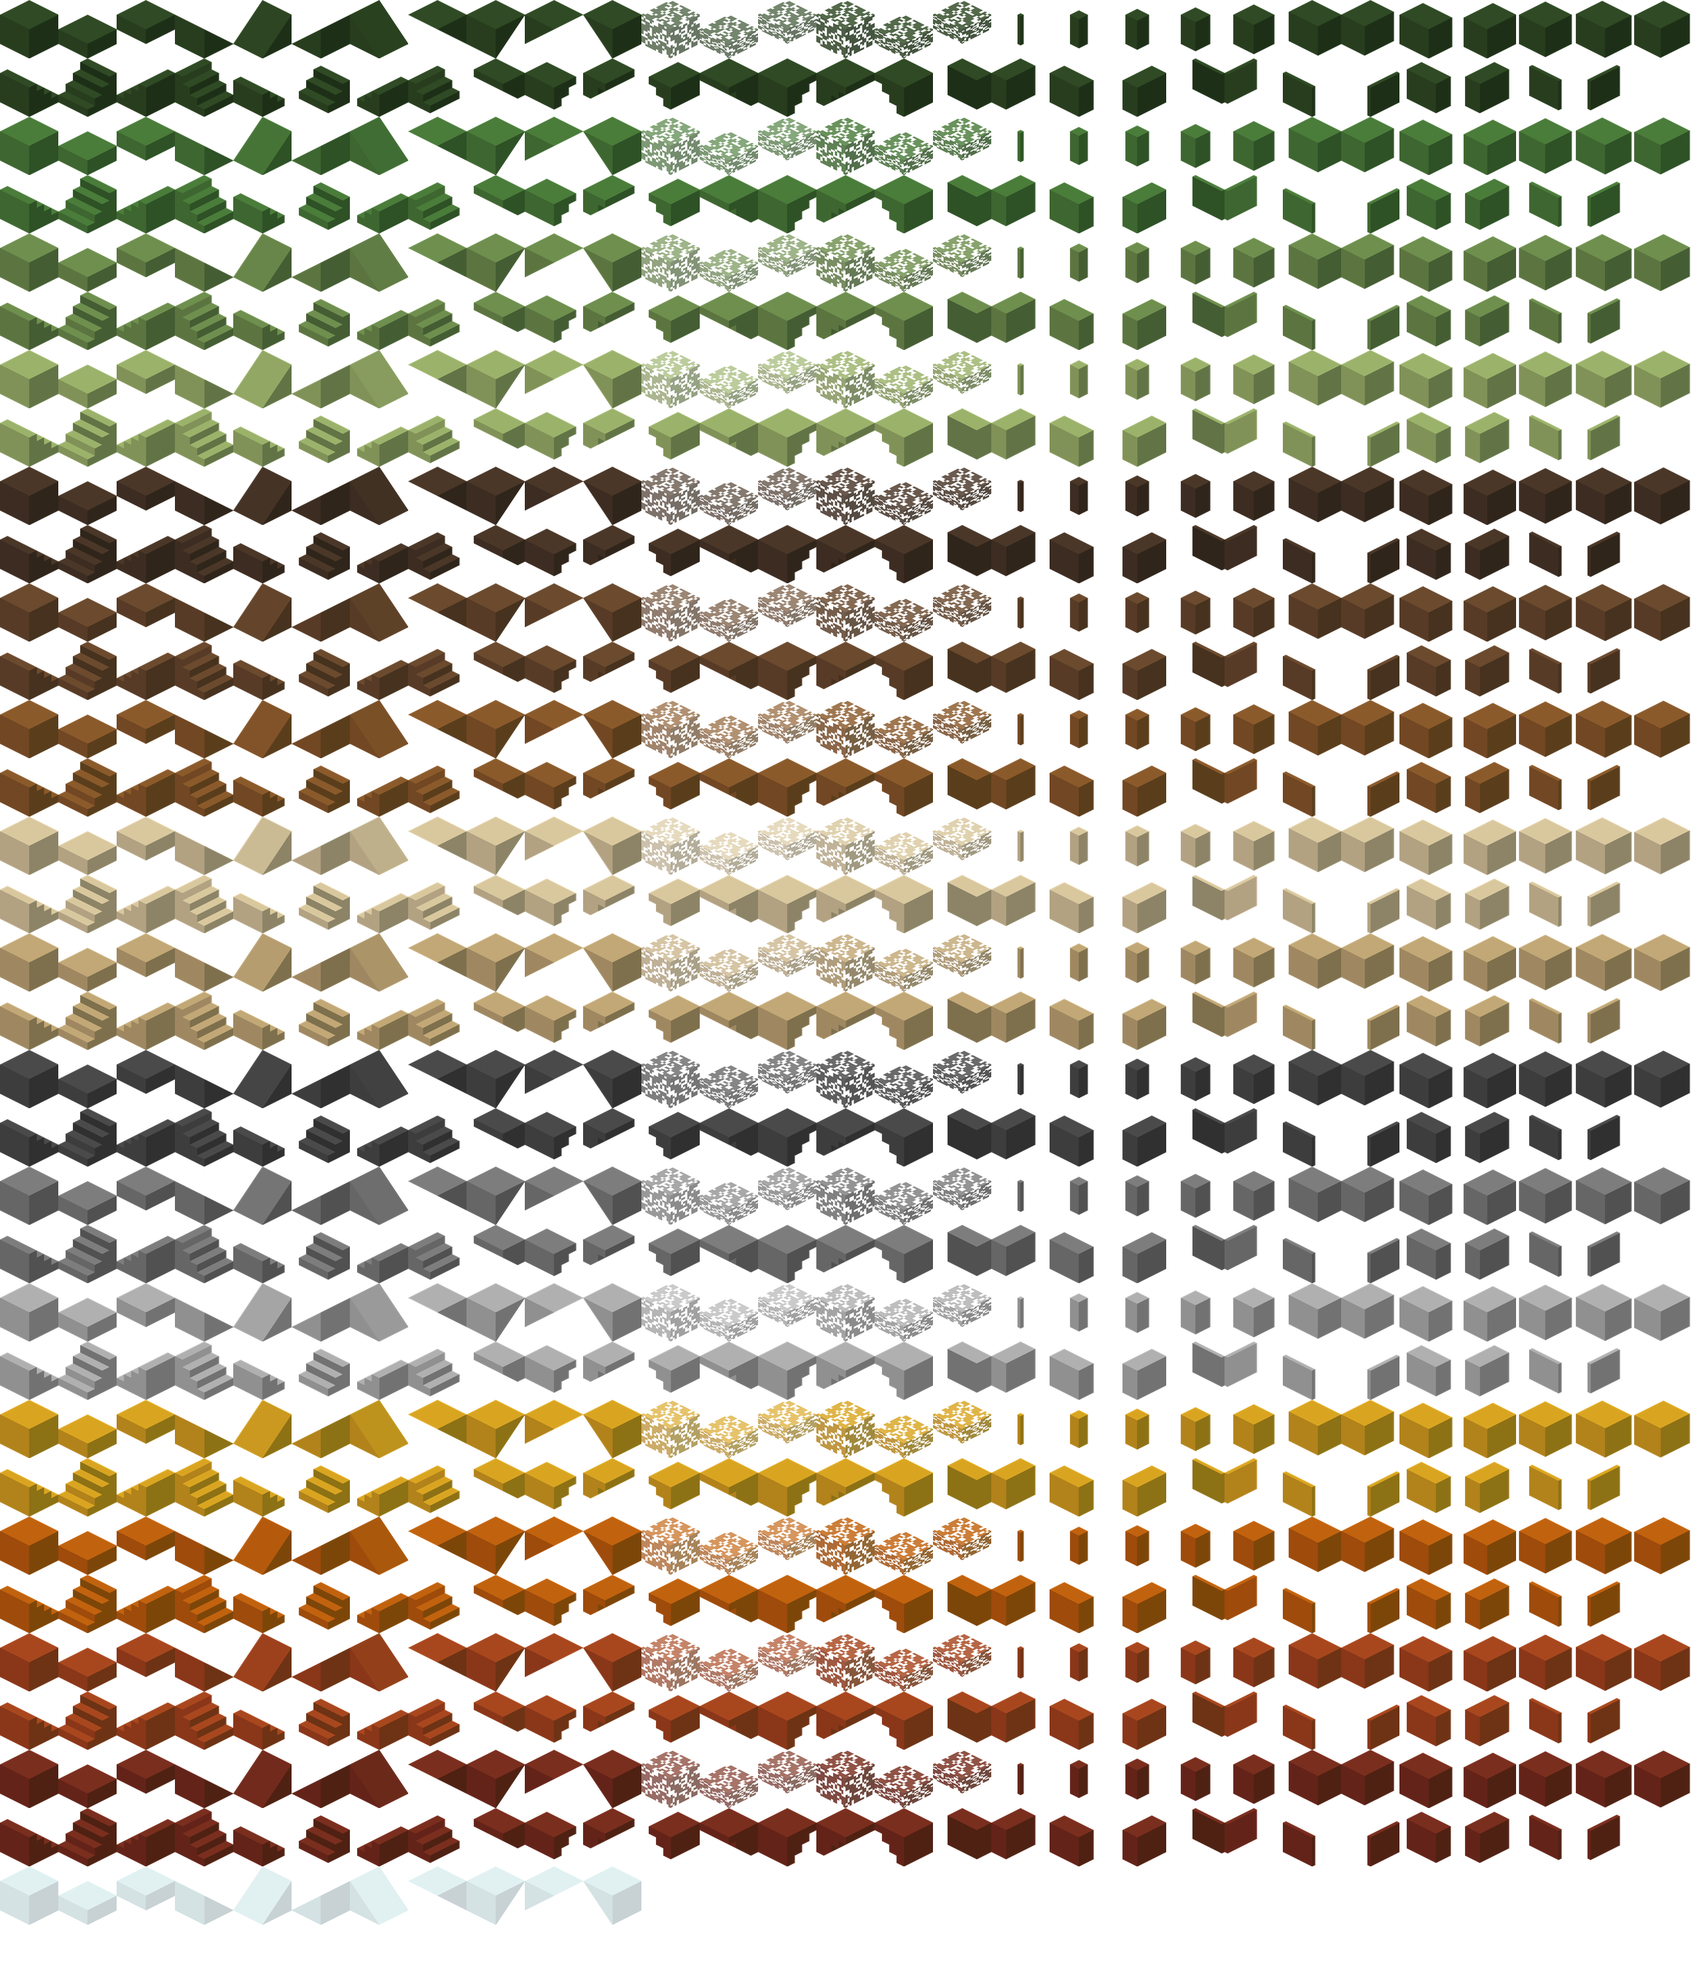
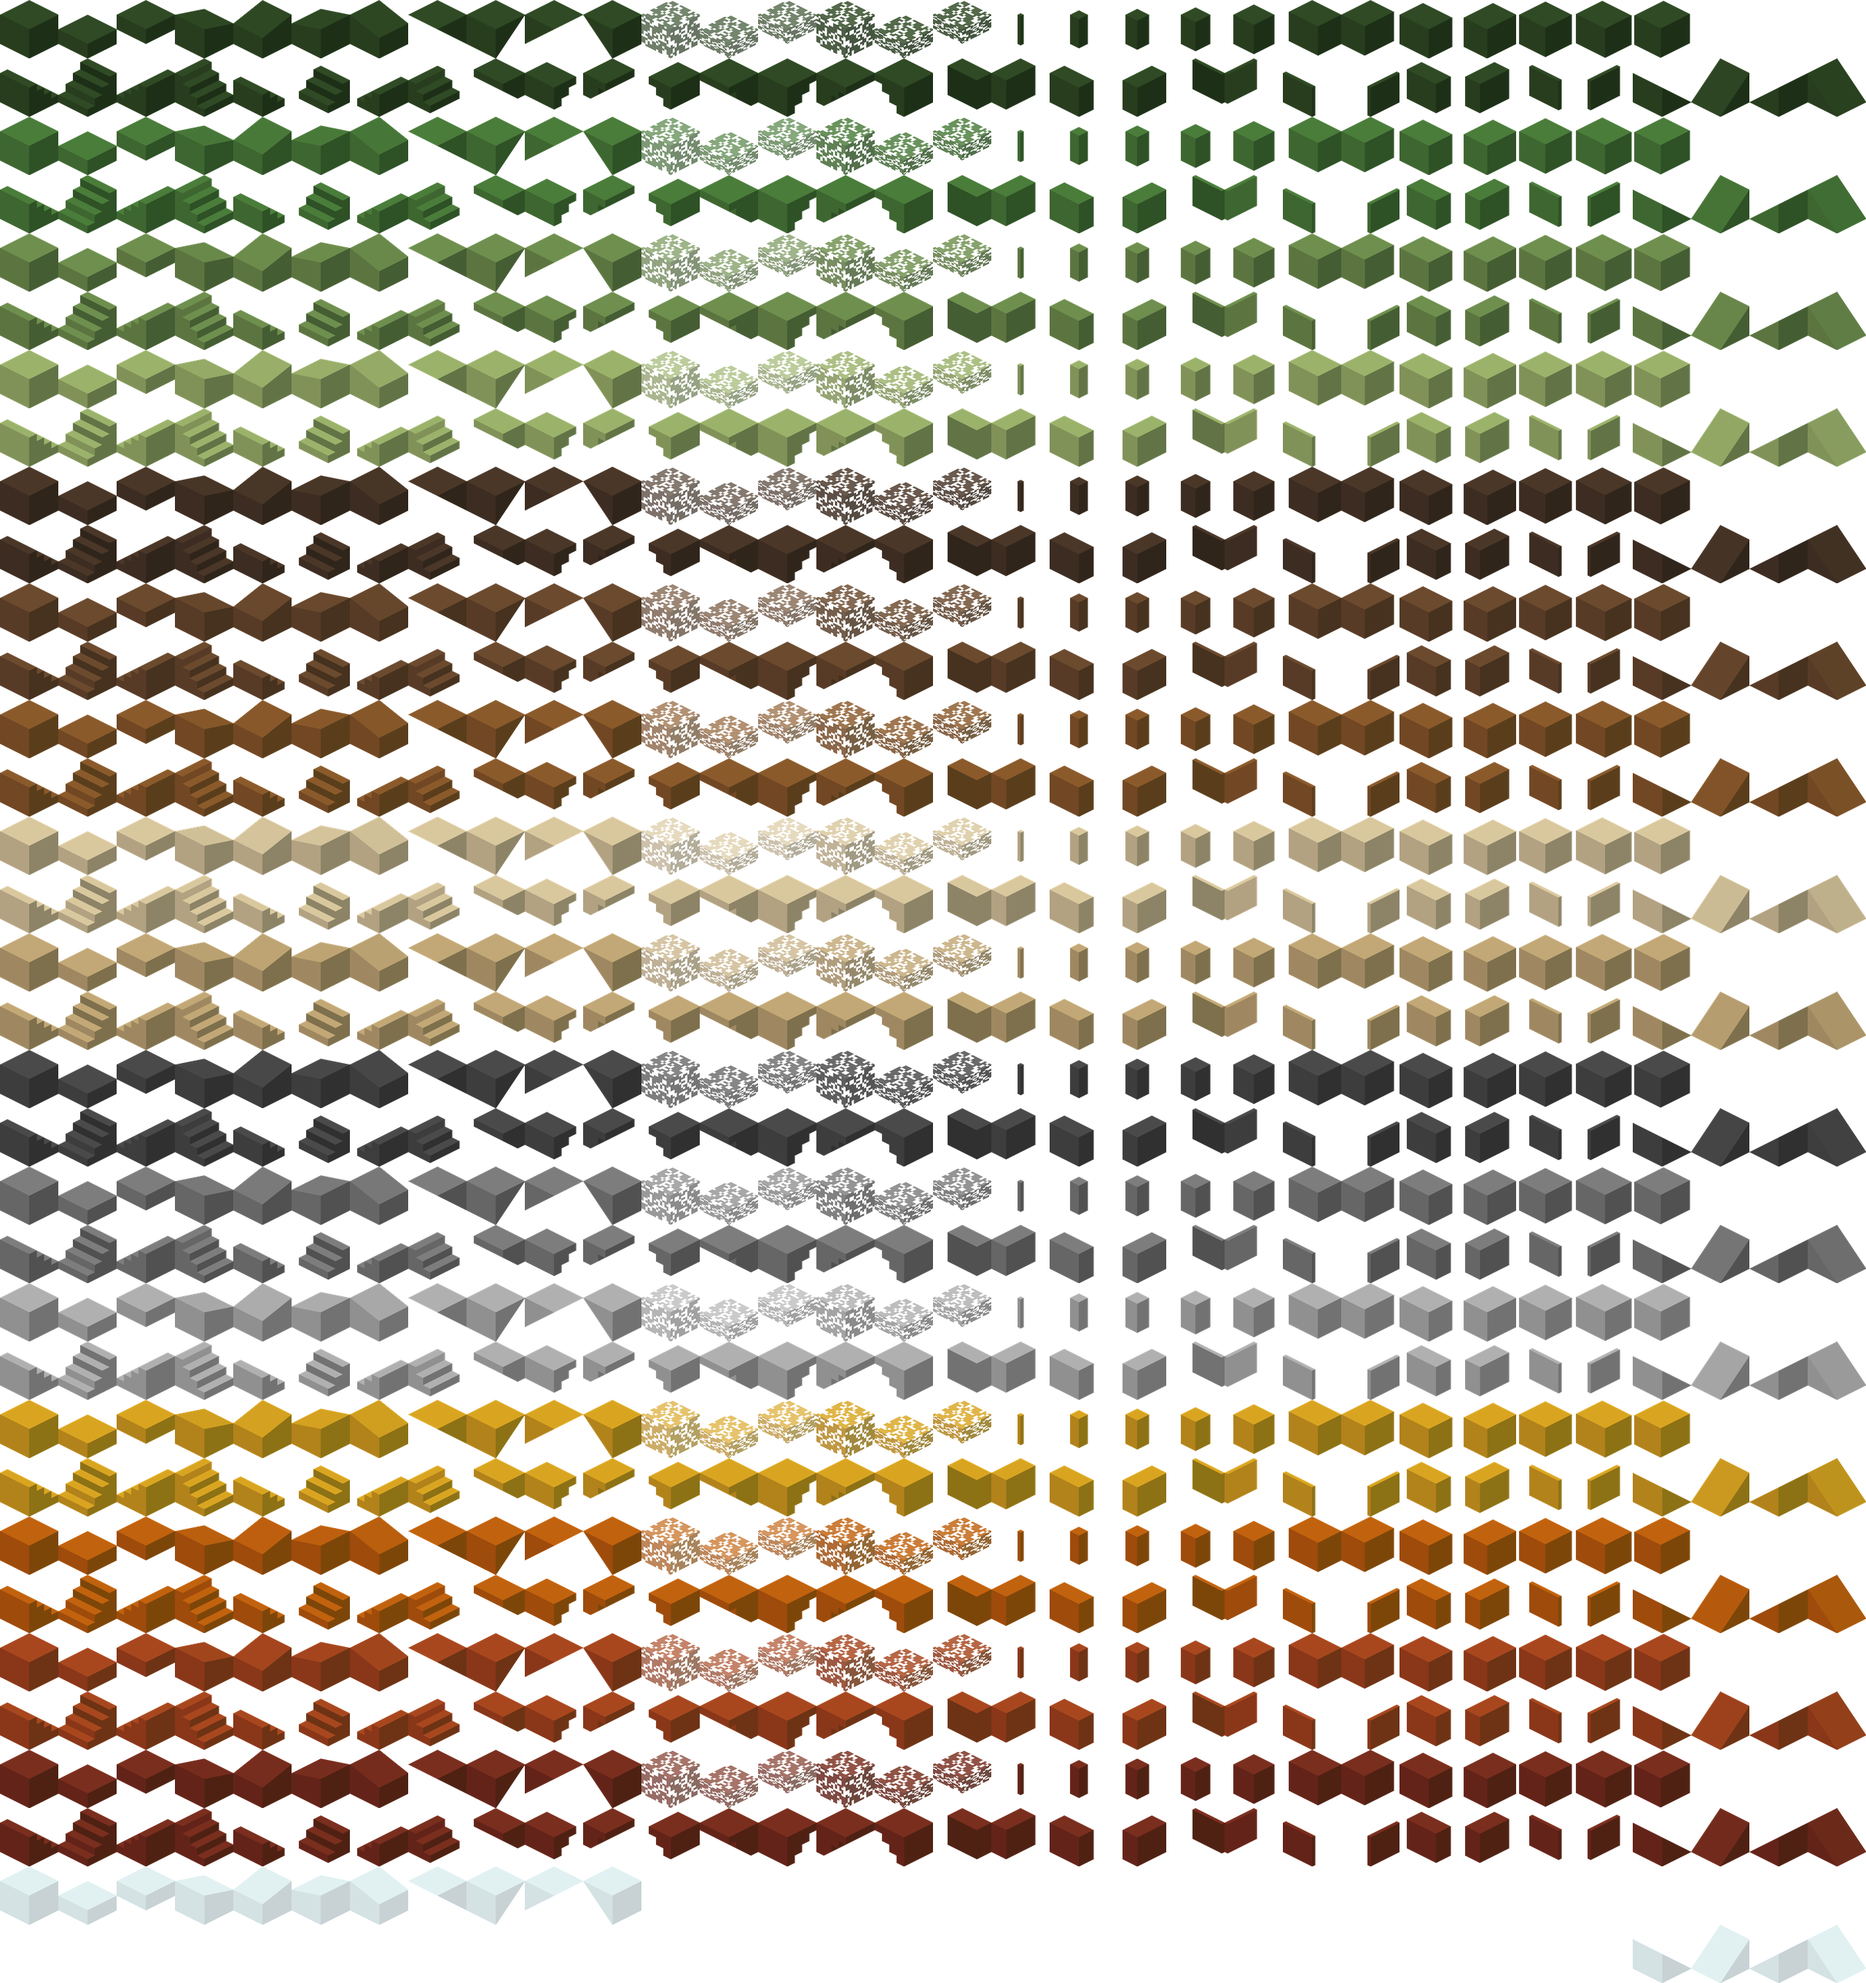
New tiles with thick slopes

diff --git a/GenerateTiles/merge_tiles.py b/GenerateTiles/merge_tiles.py
@@ -5,10 +5,10 @@ from PIL import Image
 DIR="tiles"
 TILE_SIZE = 80
 N_SETS = 17  # Maximal number for N
-ROW_LEN = 24  # Minimum row length (0 means it defaults to the longest list)
+ROW_LEN = 28  # Minimum row length (0 means it defaults to the longest list)
         
-LIST1 = ["box", "half", "up-half", "slope-x0", "slope-x1", "slope-y0", "slope-y1", "up-slope-x0", "up-slope-x1", "up-slope-y0", "up-slope-y1", "leav170-box", "leav170-half", "leav170-up-half", "leav210-box", "leav210-half", "leav210-up-half", "pole1", "pole2", "pole3", "pole4", "pole5", "thick-x0", "thick-y0", "thick-x1", "thick-y1", "pole6", "midthick-x", "midthick-y"]
-LIST2 = ["stairs-x0", "stairs-x1", "stairs-y0", "stairs-y1", "short-stairs-x0", "short-stairs-x1", "short-stairs-y0", "short-stairs-y1", "up-stairs-x0", "up-stairs-x1", "up-stairs-y0", "up-stairs-y1", "up-short-stairs-x0", "up-short-stairs-x1", "up-short-stairs-y0", "up-short-stairs-y1", "half-x0", "half-y0","half-x1", "half-y1", "wall-x0", "wall-y0", "wall-x1", "wall-y1", "mid-x", "mid-y", "midwall-x", "midwall-y"]
+LIST1 = ["box", "half", "up-half", "barely-slope-x0", "barely-slope-x1", "barely-slope-y0", "barely-slope-y1", "up-slope-x0", "up-slope-x1", "up-slope-y0", "up-slope-y1", "leav170-box", "leav170-half", "leav170-up-half", "leav210-box", "leav210-half", "leav210-up-half", "pole1", "pole2", "pole3", "pole4", "pole5", "thick-x0", "thick-y0", "thick-x1", "thick-y1", "pole6", "midthick-x", "midthick-y"]
+LIST2 = ["stairs-x0", "stairs-x1", "stairs-y0", "stairs-y1", "short-stairs-x0", "short-stairs-x1", "short-stairs-y0", "short-stairs-y1", "up-stairs-x0", "up-stairs-x1", "up-stairs-y0", "up-stairs-y1", "up-short-stairs-x0", "up-short-stairs-x1", "up-short-stairs-y0", "up-short-stairs-y1", "half-x0", "half-y0","half-x1", "half-y1", "wall-x0", "wall-y0", "wall-x1", "wall-y1", "mid-x", "mid-y", "midwall-x", "midwall-y", "slope-x0", "slope-x1", "slope-y0", "slope-y1"]
 OUTPUT_FILE = "merge_tiles.png"
 # ---------------------
 

diff --git a/GenerateTiles/generate-tile-transparent.py b/GenerateTiles/generate-tile-transparent.py
@@ -63,6 +63,10 @@ SHAPES = (
     "up-slope-x1",
     "up-slope-y0",
     "up-slope-y1",
+    "barely-slope-x0",
+    "barely-slope-x1",
+    "barely-slope-y0",
+    "barely-slope-y1",
 )
 
 
@@ -317,6 +321,19 @@ def get_heights(shape):
         "up-slope-y0": {
             "00": (0, 1), "10": (0, 1), "11": (1, 1), "01": (1, 1),
         },
+        
+        "barely-slope-x1": {
+            "00": (0, 1), "10": (0, 0.7), "11": (0, 0.7), "01": (0, 1),
+        },
+        "barely-slope-x0": {
+            "00": (0, 0.7), "10": (0, 1), "11": (0, 1), "01": (0, 0.7),
+        },
+        "barely-slope-y1": {
+            "00": (0, 1), "10": (0, 1), "11": (0, 0.7), "01": (0, 0.7),
+        },
+        "barely-slope-y0": {
+            "00": (0, 0.7), "10": (0, 0.7), "11": (0, 1), "01": (0, 1),
+        },        
     }
 
     return shapes[shape]

diff --git a/GenerateTiles/generate-tile.py b/GenerateTiles/generate-tile.py
@@ -59,6 +59,10 @@ SHAPES = (
     "up-slope-x1",
     "up-slope-y0",
     "up-slope-y1",
+    "barely-slope-x0",
+    "barely-slope-x1",
+    "barely-slope-y0",
+    "barely-slope-y1",
 )
 
 
@@ -257,6 +261,19 @@ def get_heights(shape):
         },
         "up-slope-y0": {
             "00": (0, 1), "10": (0, 1), "11": (1, 1), "01": (1, 1),
+        },
+
+        "barely-slope-x1": {
+            "00": (0, 1), "10": (0, 0.7), "11": (0, 0.7), "01": (0, 1),
+        },
+        "barely-slope-x0": {
+            "00": (0, 0.7), "10": (0, 1), "11": (0, 1), "01": (0, 0.7),
+        },
+        "barely-slope-y1": {
+            "00": (0, 1), "10": (0, 1), "11": (0, 0.7), "01": (0, 0.7),
+        },
+        "barely-slope-y0": {
+            "00": (0, 0.7), "10": (0, 0.7), "11": (0, 1), "01": (0, 1),
         },
     }
 
